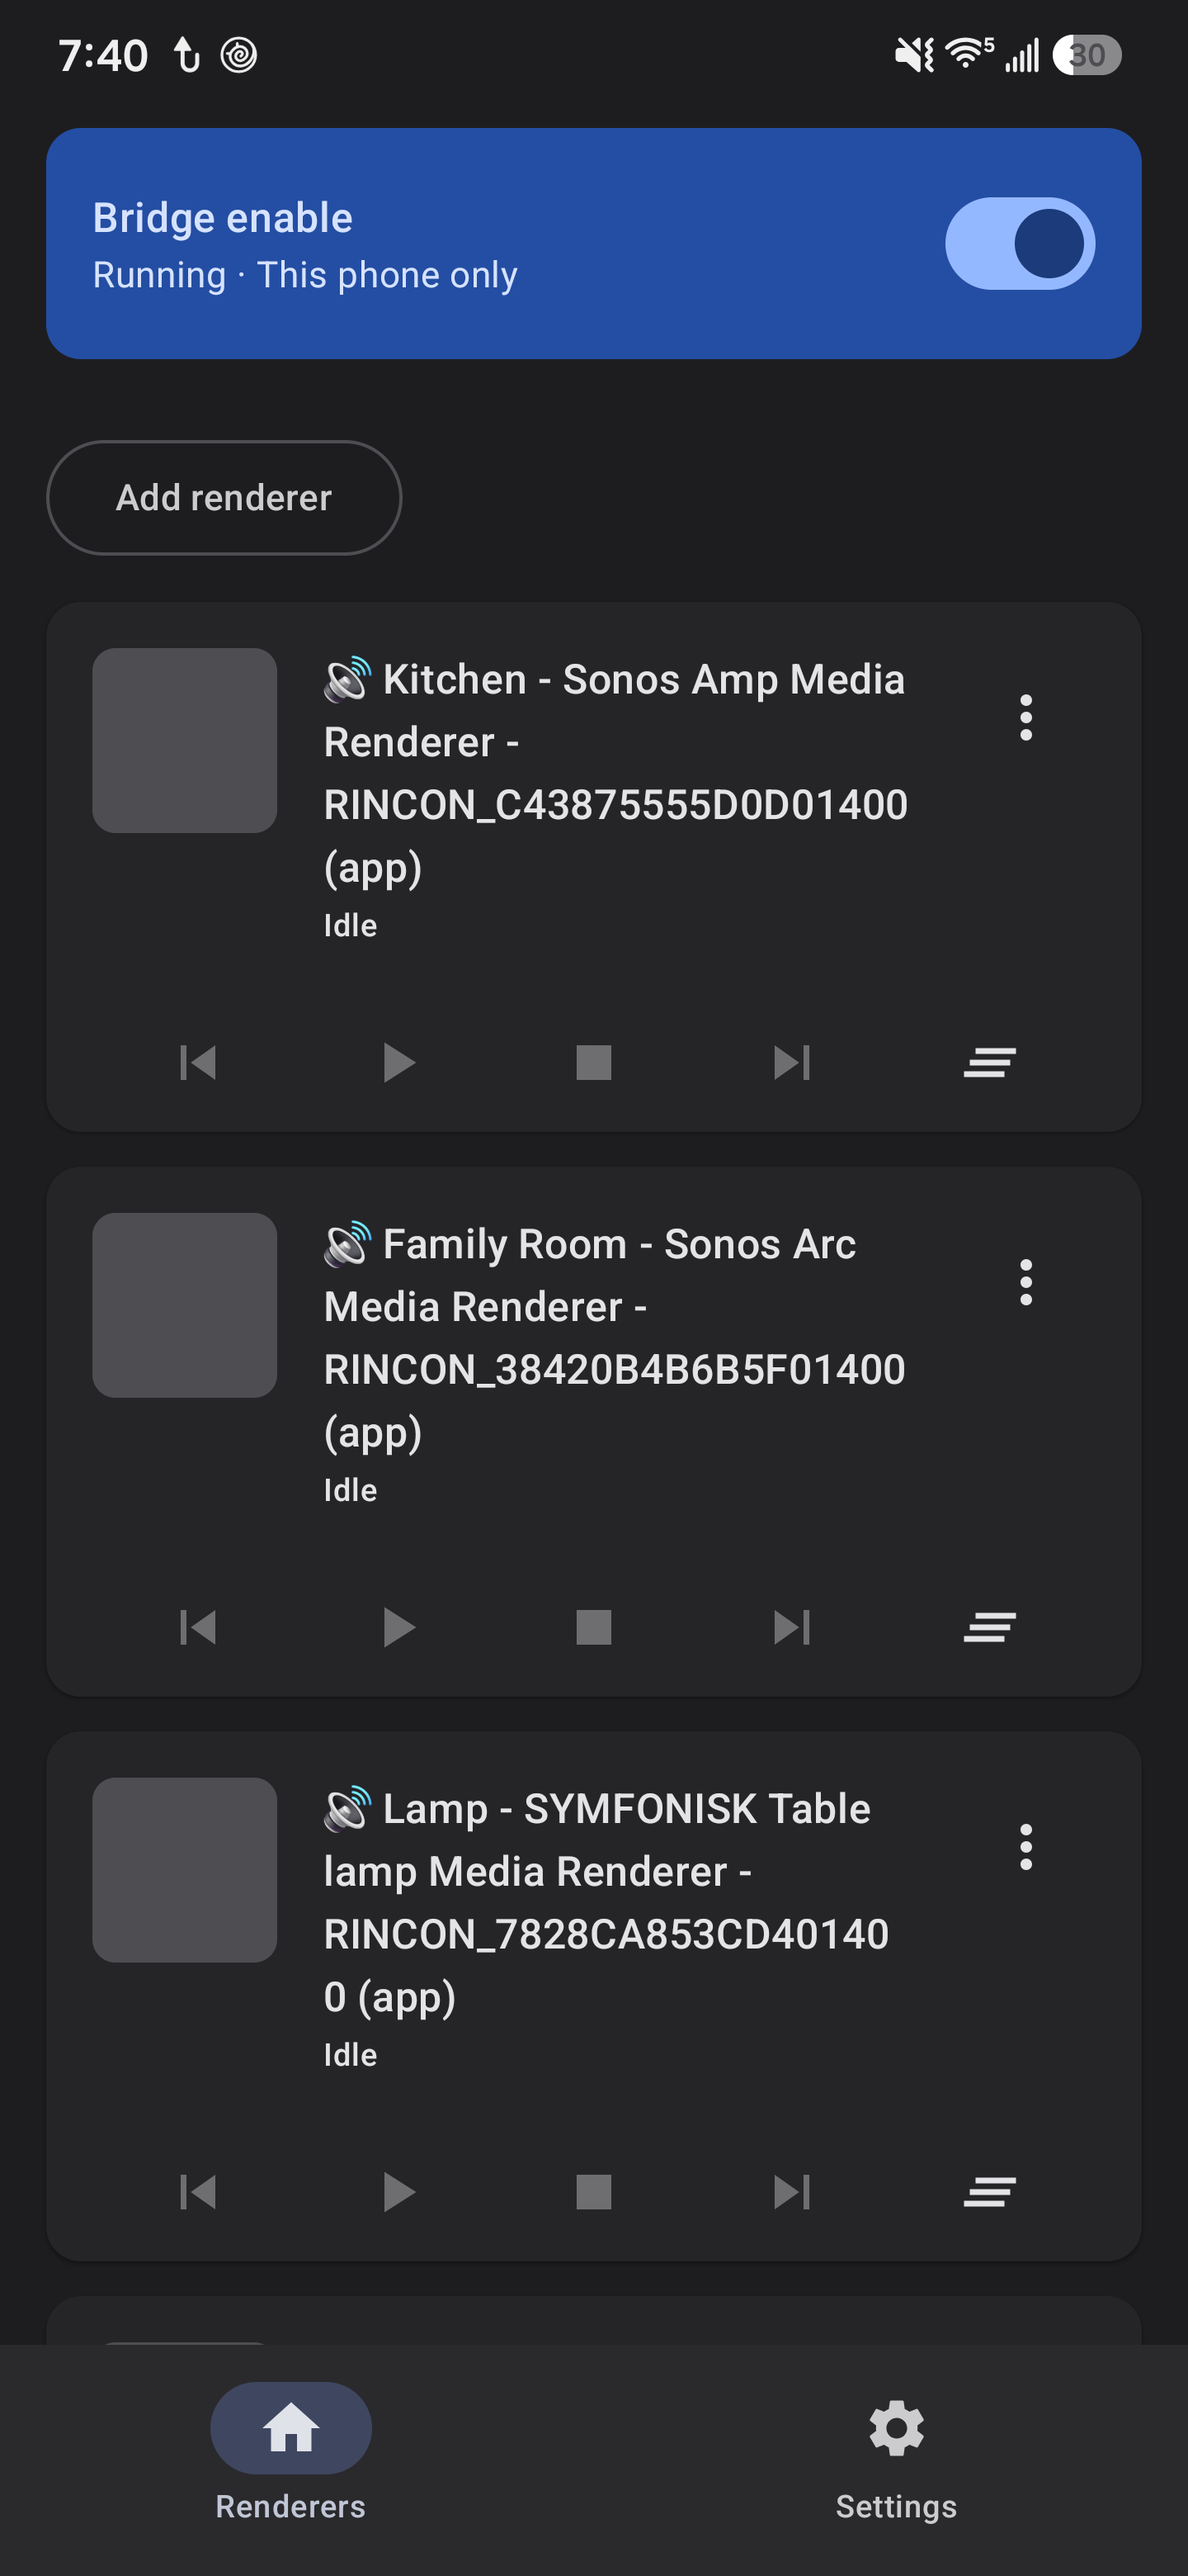
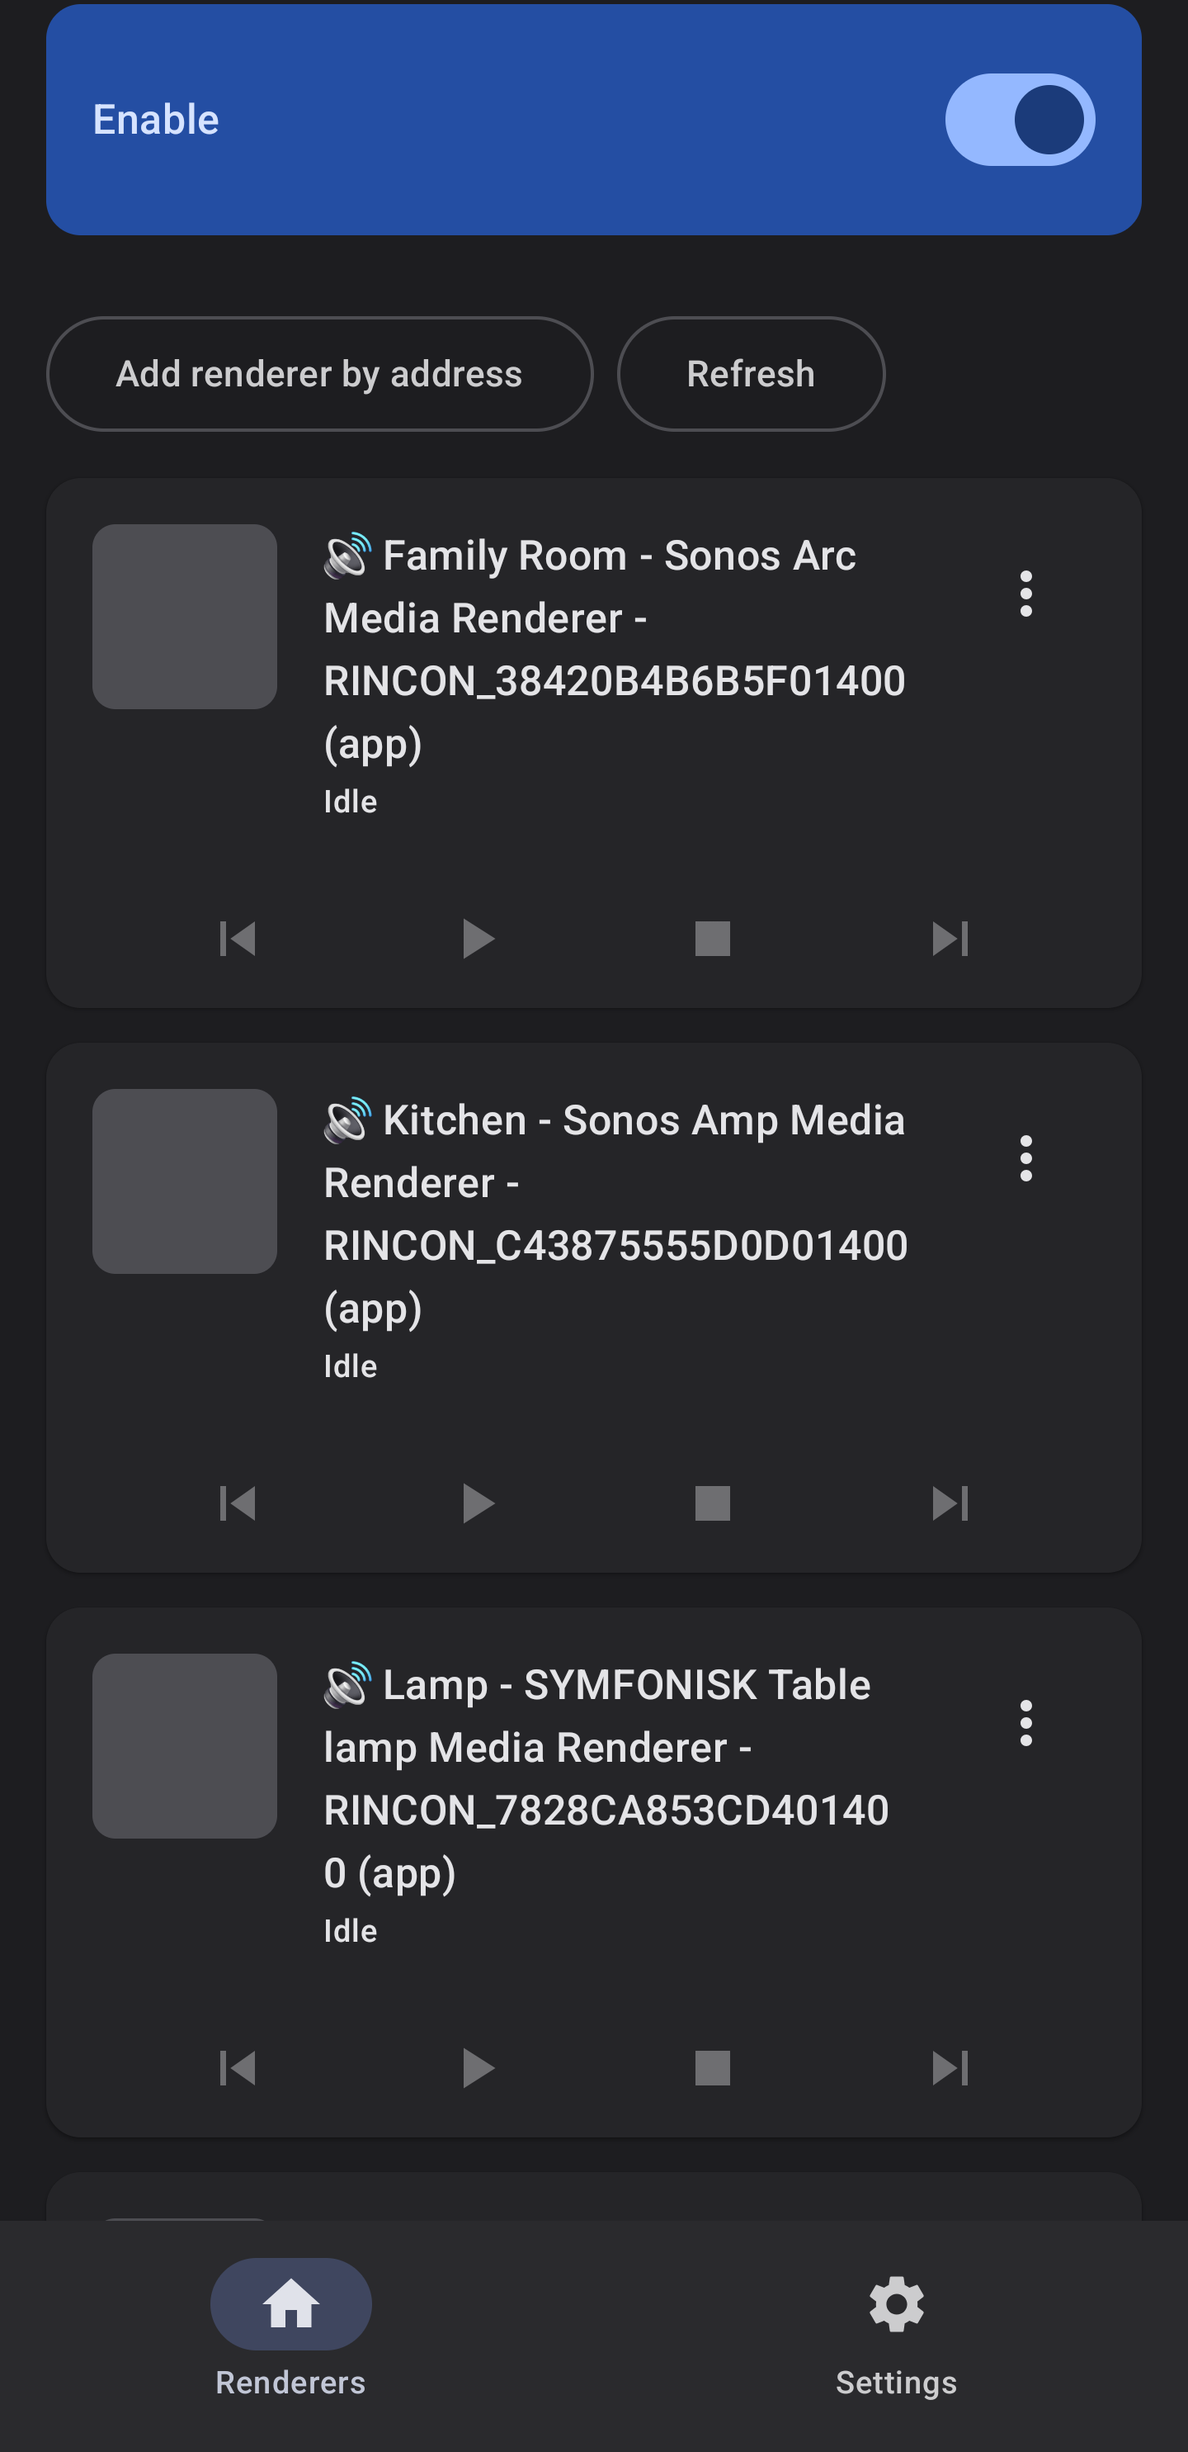
docs: explain the playback modes and refresh the screenshots (#28)
- Replaces the one-line Playback mode bullet with a Playback modes
section: a comparison table of Streaming, Direct and Cached (start time,
skipping, battery, storage, speaker support) and a paragraph on each
mode's benefits and downsides.
- Retakes the Renderers and Settings screenshots (Refresh button,
grouped Settings). The status bar is cropped out.

Please check before merging: the Renderers screenshot shows the
speakers' Sonos names, which include their RINCON device IDs (derived
from the speaker's MAC address).

---------

diff --git a/README.md b/README.md
@@ -21,7 +21,7 @@ audio with yt-dlp, remuxes or transcodes with ffmpeg, and serves the stream to t
 
 - **Gapless track changes**: Helps ensure a seamless transition between tracks without an noticable wait. on by default, for renderers that support it.
 - **Caching** (Cached mode): renderer-ready audio files are cached locally so they aren't downloaded with yt-dlp again. Newly downloaded sources are temporary and removed when no longer in use; sources retained by older versions can be removed with "Clear cache". Oldest entries are purged automatically to make space, and tracks too big for the cache aren't kept. Android's "Clear cache" also empties it
-- **Playback mode**: Streaming (default) tries AAC/ADTS without re-encoding and falls back to MP3; seeking or resuming after a pause reloads the stream at the current position. Direct proxies the source without FFmpeg and relies on the renderer to seek, which can be very slow for long tracks. Cached builds a complete MP4 before playback and normally lets the renderer seek the file. Existing Automatic selections move to Streaming.
+- **Playback modes**: Streaming, Direct or Cached, chosen in Settings; see [Playback modes](#playback-modes) below.
 - **Audio format display**: Optionally show the format currently loaded on each renderer's card. It updates if playback falls back to another format.
 - **Hidden renderers**: Renderers can be hidden and will be removed as DIAL targets from the cast menu. Useful for TVs or other devices you don't want listed
 - **Full casting control**: Native casting control from YouTube and YouTube Music, including seeking, synced buffering, volume controls, next/previous track controls, autoplay, shuffle, repeat, and track metadata
@@ -29,6 +29,33 @@ audio with yt-dlp, remuxes or transcodes with ffmpeg, and serves the stream to t
 
 For volume requests that include a button direction, DialUP avoids applying a stale target in the opposite direction
 and reports the speaker's current volume back to the sender. Slider requests without a direction remain absolute.
+
+## Playback modes
+
+Settings → Playback → Playback mode decides how audio gets from YouTube to your speaker. All three play the same
+tracks; they differ in how quickly playback starts, how well skipping works and what the phone has to do.
+
+| | Streaming (default) | Direct | Cached |
+|---|---|---|---|
+| What the phone does | Fetches the audio and passes it on as a live stream (AAC copied as-is; re-encoded to MP3 only if the speaker rejects AAC) | Passes the original audio on unchanged, with no FFmpeg | Downloads the whole track, remuxes it to an MP4 file, then serves the file |
+| Start of playback | Fast | Fast | Slower: the whole track is fetched first |
+| Skipping within a track | Reloads the stream at the new position (a short pause) | Left to the speaker, which can be very slow on long tracks | The speaker seeks within the file, normally the smoothest |
+| Phone battery and CPU | Low with AAC; higher if it falls back to MP3 | Lowest | Busy while downloading, then low |
+| Phone storage | None | None | Uses the cache (256 MB by default, set in Settings) |
+| Speaker support | Falls back to MP3 if the speaker rejects AAC | Speaker must support the original audio format | Speaker plays a finished file, not a live stream |
+
+**Streaming** suits most people: it starts quickly and handles skipping by restarting the stream at the position you
+pick. Its downsides are a brief pause when you skip, and extra battery use on the tracks or speakers that need the
+MP3 fallback.
+
+**Direct** does the least work on the phone and keeps the original audio, but it depends on the speaker. Some speakers
+cannot play the original format, and a speaker that seeks by reading through the stream can take a long time to skip
+within a long track. Try it if Streaming drains your battery and your speaker handles it well.
+
+**Cached** prepares a complete file before playing, so the speaker can seek freely and a replayed track doesn't
+need to be fetched again. The cost is a longer start, especially for long tracks, and storage on the phone. A track too big for
+the cache is played from a temporary file and deleted afterwards. Old tracks are removed automatically, oldest
+first, to stay under the cache size.
 
 ## Privacy
 
